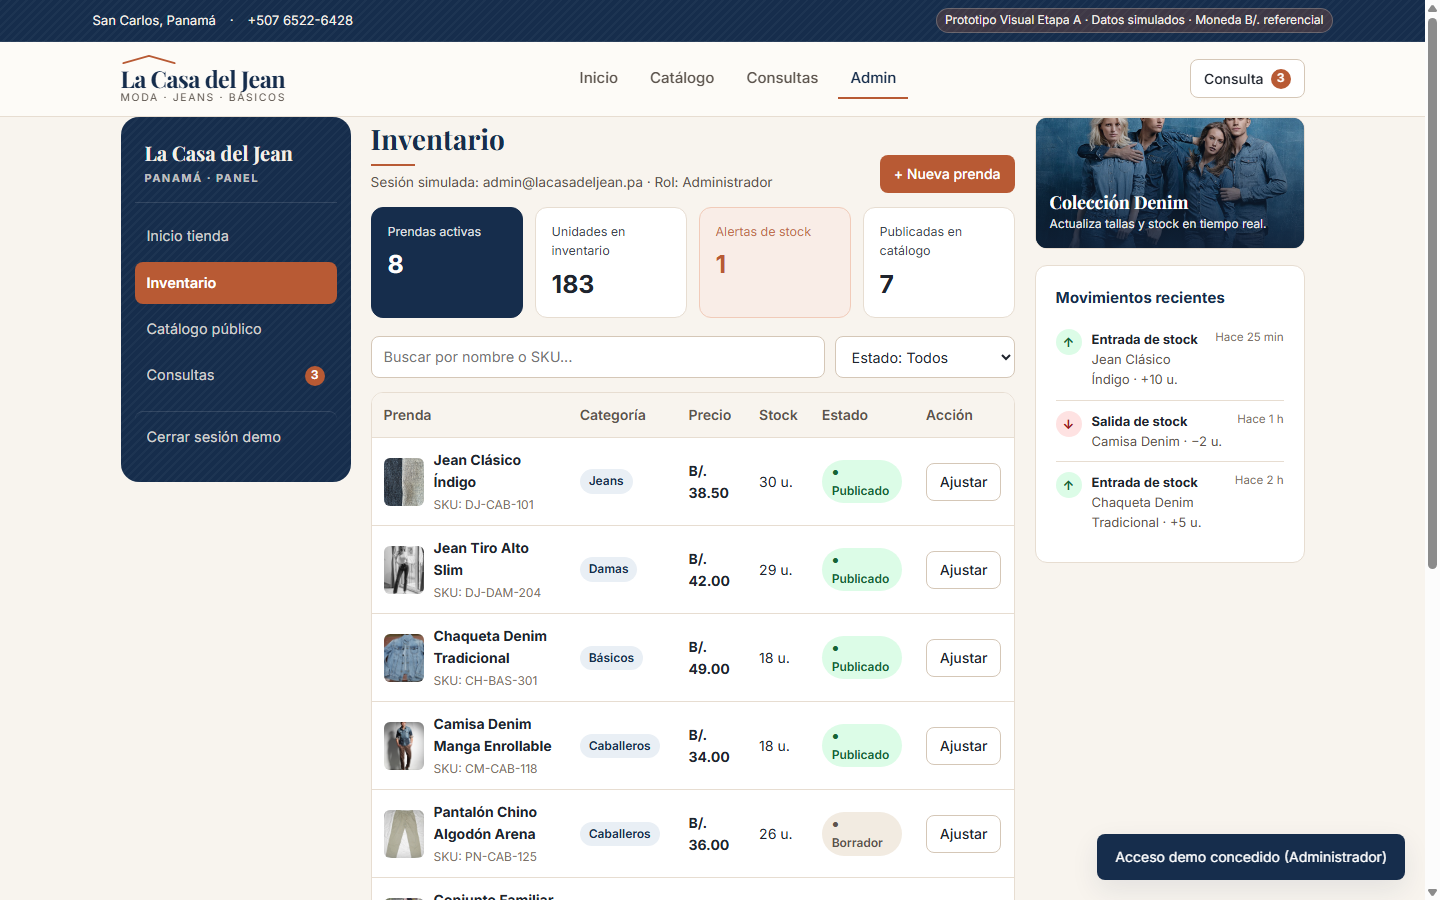
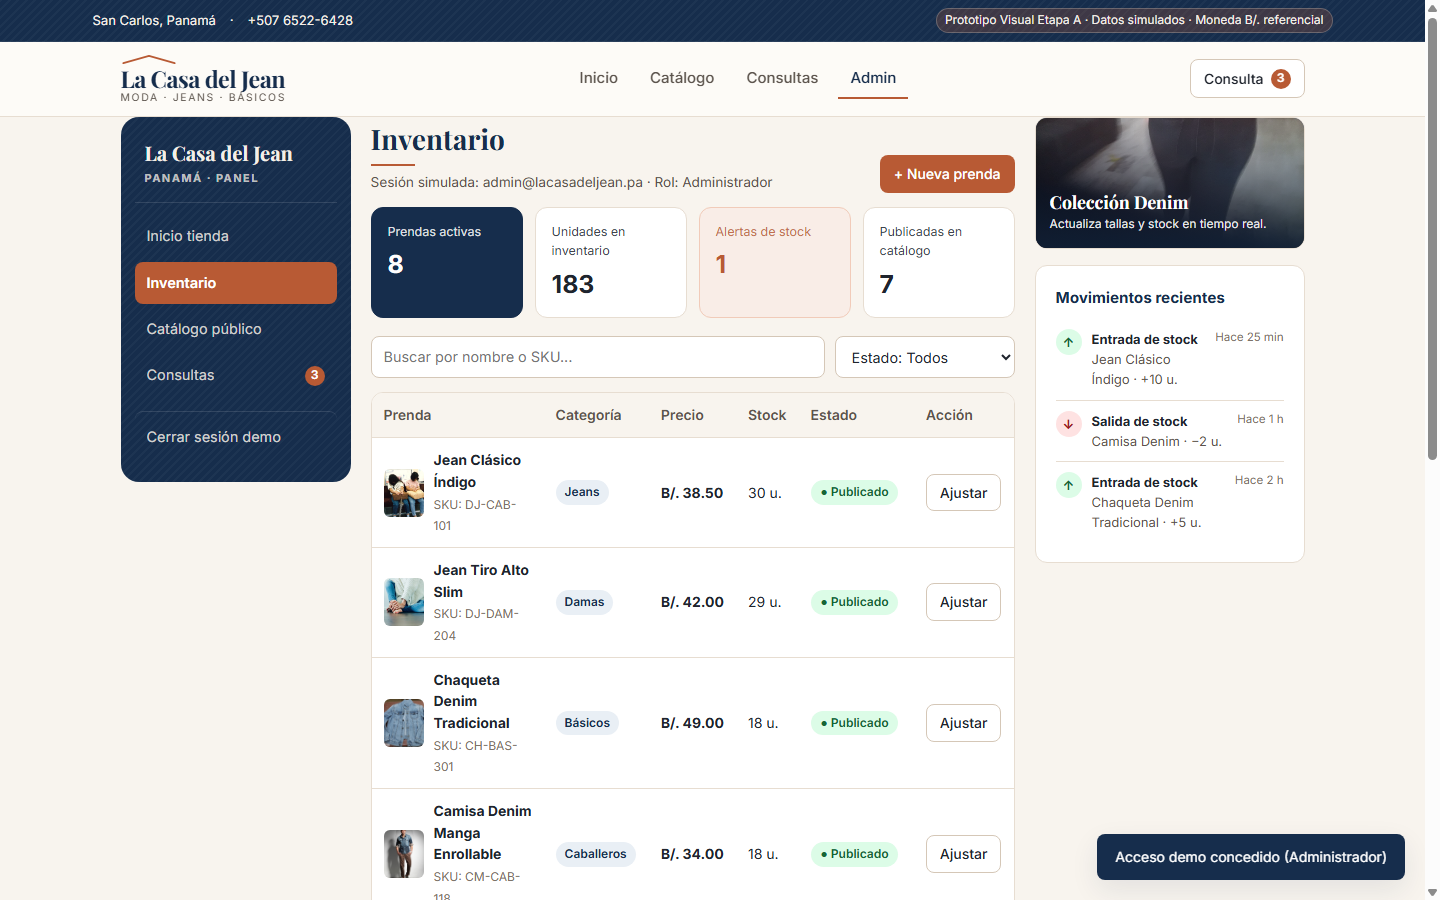
docs(fase2): pulir hero a color, fotos reales, catálogo móvil 2-col y tabla admin (#7, #8, #9)

diff --git a/docs/prototipo-fase2/data.js b/docs/prototipo-fase2/data.js
@@ -14,19 +14,19 @@ window.LCDJ_DATA = {
   },
 
   heroImage: {
-    url: "https://thumb.wikimedia.org/wikipedia/commons/thumb/f/fe/Sedcard_outfit_consisting_of_white_top_%28bodysuit%29%2C_%28blue%29_denim_and_heels.jpg/960px-Sedcard_outfit_consisting_of_white_top_%28bodysuit%29%2C_%28blue%29_denim_and_heels.jpg?utm_source=commons.wikimedia.org&utm_campaign=imageinfo&utm_content=thumbnail",
-    alt: "Modelo vistiendo jeans denim azul clásico y top blanco minimalista",
-    author: "Tobias ToMar Maier",
-    license: "CC BY-SA 4.0",
-    source: "https://commons.wikimedia.org/wiki/File:Sedcard_outfit_consisting_of_white_top_(bodysuit),_(blue)_denim_and_heels.jpg"
-  },
-
-  denimStackImage: {
     url: "https://thumb.wikimedia.org/wikipedia/commons/thumb/0/01/Jeans_Jeans_Jeans.jpg/960px-Jeans_Jeans_Jeans.jpg?utm_source=commons.wikimedia.org&utm_campaign=imageinfo&utm_content=thumbnail",
-    alt: "Colección de jeans denim doblados en distintos lavados",
+    alt: "Campaña editorial de modelos vistiendo jeans y camisas denim azul índigo",
     author: "Jcjeansandclothes",
     license: "CC BY-SA 3.0",
     source: "https://commons.wikimedia.org/wiki/File:Jeans_Jeans_Jeans.jpg"
+  },
+
+  denimStackImage: {
+    url: "https://thumb.wikimedia.org/wikipedia/commons/thumb/9/99/Jeans_mexicanos.jpg/960px-Jeans_mexicanos.jpg?utm_source=commons.wikimedia.org&utm_campaign=imageinfo&utm_content=thumbnail",
+    alt: "Pantalones jeans denim azul en exhibición",
+    author: "El Nuevo Doge",
+    license: "CC0",
+    source: "https://commons.wikimedia.org/wiki/File:Jeans_mexicanos.jpg"
   },
 
   categories: [
@@ -38,7 +38,7 @@ window.LCDJ_DATA = {
     {
       id: "jeans",
       label: "Jeans",
-      image: "https://thumb.wikimedia.org/wikipedia/commons/thumb/0/00/Broken_twill_denim_Wrangler_13MWZ_jeans_%282026-01-21%29.jpg/960px-Broken_twill_denim_Wrangler_13MWZ_jeans_%282026-01-21%29.jpg?utm_source=commons.wikimedia.org&utm_campaign=imageinfo&utm_content=thumbnail"
+      image: "https://thumb.wikimedia.org/wikipedia/commons/thumb/4/48/%E3%83%86%E3%83%BC%E3%83%91%E3%83%BC%E3%83%89%E3%82%B8%E3%83%BC%E3%83%B3%E3%82%BA_%283953687892%29.jpg/960px-%E3%83%86%E3%83%BC%E3%83%91%E3%83%BC%E3%83%89%E3%82%B8%E3%83%BC%E3%83%B3%E3%82%BA_%283953687892%29.jpg?utm_source=commons.wikimedia.org&utm_campaign=imageinfo&utm_content=thumbnail"
     },
     {
       id: "damas",
@@ -86,11 +86,11 @@ window.LCDJ_DATA = {
       color: "Índigo",
       colorId: "indigo",
       swatches: ["#1B365D", "#4D739B", "#1F2937"],
-      image: "https://thumb.wikimedia.org/wikipedia/commons/thumb/0/00/Broken_twill_denim_Wrangler_13MWZ_jeans_%282026-01-21%29.jpg/960px-Broken_twill_denim_Wrangler_13MWZ_jeans_%282026-01-21%29.jpg?utm_source=commons.wikimedia.org&utm_campaign=imageinfo&utm_content=thumbnail",
+      image: "https://thumb.wikimedia.org/wikipedia/commons/thumb/4/48/%E3%83%86%E3%83%BC%E3%83%91%E3%83%BC%E3%83%89%E3%82%B8%E3%83%BC%E3%83%B3%E3%82%BA_%283953687892%29.jpg/960px-%E3%83%86%E3%83%BC%E3%83%91%E3%83%BC%E3%83%89%E3%82%B8%E3%83%BC%E3%83%B3%E3%82%BA_%283953687892%29.jpg?utm_source=commons.wikimedia.org&utm_campaign=imageinfo&utm_content=thumbnail",
       attribution: {
-        author: "Olgierd Rudak",
-        license: "CC BY-SA 4.0",
-        source: "https://commons.wikimedia.org/wiki/File:Broken_twill_denim_Wrangler_13MWZ_jeans_(2026-01-21).jpg"
+        author: "Leo-setä",
+        license: "CC BY 2.0",
+        source: "https://commons.wikimedia.org/wiki/File:%E3%83%86%E3%83%BC%E3%83%91%E3%83%BC%E3%83%89%E3%82%B8%E3%83%BC%E3%83%B3%E3%82%BA_(3953687892).jpg"
       },
       sizes: [
         { size: "28", stock: 6 },
@@ -116,11 +116,11 @@ window.LCDJ_DATA = {
       color: "Azul Medio",
       colorId: "azul-medio",
       swatches: ["#4D739B", "#1B365D"],
-      image: "https://thumb.wikimedia.org/wikipedia/commons/thumb/f/fe/Sedcard_outfit_consisting_of_white_top_%28bodysuit%29%2C_%28blue%29_denim_and_heels.jpg/960px-Sedcard_outfit_consisting_of_white_top_%28bodysuit%29%2C_%28blue%29_denim_and_heels.jpg?utm_source=commons.wikimedia.org&utm_campaign=imageinfo&utm_content=thumbnail",
+      image: "https://thumb.wikimedia.org/wikipedia/commons/thumb/a/a9/Imani-bahati-woman-wearing-distressed-blue-denim-jeans-sitting-on-floor.jpg/960px-Imani-bahati-woman-wearing-distressed-blue-denim-jeans-sitting-on-floor.jpg?utm_source=commons.wikimedia.org&utm_campaign=imageinfo&utm_content=thumbnail",
       attribution: {
-        author: "Tobias ToMar Maier",
-        license: "CC BY-SA 4.0",
-        source: "https://commons.wikimedia.org/wiki/File:Sedcard_outfit_consisting_of_white_top_(bodysuit),_(blue)_denim_and_heels.jpg"
+        author: "Imani Bahati",
+        license: "CC0",
+        source: "https://commons.wikimedia.org/wiki/File:Imani-bahati-woman-wearing-distressed-blue-denim-jeans-sitting-on-floor.jpg"
       },
       sizes: [
         { size: "6", stock: 5 },

diff --git a/docs/prototipo-fase2/styles.css b/docs/prototipo-fase2/styles.css
@@ -192,13 +192,13 @@ main { min-height: calc(100vh - 220px); padding: 24px 0 64px; }
   margin-bottom: 24px;
 }
 @media (min-width: 900px) {
-  .hero-editorial { grid-template-columns: 1.15fr 0.85fr; min-height: 430px; }
+  .hero-editorial { grid-template-columns: 1.05fr 0.95fr; min-height: 340px; max-height: 390px; }
 }
 .hero-copy {
-  padding: 28px 24px; display: flex; flex-direction: column; justify-content: center;
+  padding: 24px 22px; display: flex; flex-direction: column; justify-content: center;
   position: relative;
 }
-@media (min-width: 900px) { .hero-copy { padding: 48px 44px; } }
+@media (min-width: 900px) { .hero-copy { padding: 34px 40px; } }
 
 .leather-patch {
   display: inline-block; align-self: flex-start;
@@ -239,7 +239,7 @@ main { min-height: calc(100vh - 220px); padding: 24px 0 64px; }
 .trust-bar {
   display: grid; grid-template-columns: repeat(2, 1fr); gap: 12px;
   background: var(--surface); border: 1px solid var(--border);
-  border-radius: var(--radius-md); padding: 16px; margin-bottom: 36px;
+  border-radius: var(--radius-md); padding: 14px 16px; margin-bottom: 24px;
 }
 @media (min-width: 860px) { .trust-bar { grid-template-columns: repeat(4, 1fr); padding: 18px 22px; } }
 .trust-item { display: flex; align-items: flex-start; gap: 12px; }
@@ -335,9 +335,17 @@ main { min-height: calc(100vh - 220px); padding: 24px 0 64px; }
 @media (min-width: 900px) { .catalog-layout { grid-template-columns: 260px 1fr; align-items: start; } }
 
 .filter-sidebar {
+  display: none;
   background: var(--surface); border: 1px solid var(--border);
   border-radius: var(--radius-md); padding: 18px;
 }
+.filter-sidebar.is-open { display: block; }
+@media (min-width: 900px) { .filter-sidebar { display: block; } }
+
+.mobile-filter-toggle {
+  display: inline-flex;
+}
+@media (min-width: 900px) { .mobile-filter-toggle { display: none; } }
 .filter-group { padding: 14px 0; border-bottom: 1px solid var(--border); }
 .filter-group:last-child { border-bottom: none; padding-bottom: 0; }
 .filter-group h3 { font-size: 0.875rem; font-weight: 600; margin: 0 0 10px; color: var(--denim); }
@@ -511,6 +519,7 @@ main { min-height: calc(100vh - 220px); padding: 24px 0 64px; }
 }
 table { width: 100%; border-collapse: collapse; font-size: 0.875rem; }
 th, td { padding: 11px 12px; text-align: left; border-bottom: 1px solid var(--border); vertical-align: middle; }
+td.nowrap { white-space: nowrap; }
 th { background: var(--bg); font-weight: 600; color: var(--ink-secondary); white-space: nowrap; }
 .table-prod { display: flex; align-items: center; gap: 10px; }
 .table-prod img { width: 40px; height: 48px; object-fit: cover; border-radius: 6px; flex-shrink: 0; }

diff --git a/docs/prototipo-fase2/index.html b/docs/prototipo-fase2/index.html
@@ -136,9 +136,12 @@
           <h1 id="catalog-heading" class="section-title">Catálogo</h1>
           <p id="catalog-count" style="margin:6px 0 0;font-size:0.875rem;color:var(--ink-secondary);"></p>
         </div>
-        <div style="display:flex;gap:10px;flex-wrap:wrap;align-items:center;">
-          <input id="search-input" class="input" type="search" placeholder="Buscar prendas o SKU..." style="width:220px;" aria-label="Buscar prendas" />
-          <select id="sort-select" class="select" style="width:185px;" aria-label="Ordenar catálogo">
+        <div style="display:flex;gap:8px;flex-wrap:wrap;align-items:center;">
+          <button type="button" class="btn btn-secondary btn-sm mobile-filter-toggle" id="mobile-filter-toggle" aria-expanded="false" aria-controls="catalog-filter-sidebar">
+            ☰ Filtros
+          </button>
+          <input id="search-input" class="input" type="search" placeholder="Buscar prendas o SKU..." style="width:190px;flex:1;" aria-label="Buscar prendas" />
+          <select id="sort-select" class="select" style="width:170px;" aria-label="Ordenar catálogo">
             <option value="featured">Ordenar: Destacados</option>
             <option value="price-asc">Precio: menor a mayor</option>
             <option value="price-desc">Precio: mayor a menor</option>
@@ -148,7 +151,7 @@
       </div>
 
       <div class="catalog-layout">
-        <aside class="filter-sidebar" aria-label="Filtros del catálogo">
+        <aside class="filter-sidebar" id="catalog-filter-sidebar" aria-label="Filtros del catálogo">
           <div style="display:flex;justify-content:space-between;align-items:center;margin-bottom:4px;">
             <strong style="font-size:1rem;color:var(--denim);">Filtros</strong>
             <button type="button" class="btn btn-ghost btn-sm" id="clear-filters-btn" style="color:var(--terracotta);">Limpiar</button>

diff --git a/docs/prototipo-fase2/app.js b/docs/prototipo-fase2/app.js
@@ -466,10 +466,10 @@
           </div>
         </td>
         <td><span class="cat-pill">${p.categoryLabel}</span></td>
-        <td><strong>${formatPrice(p.price)}</strong></td>
-        <td>${stk} u.</td>
-        <td><span class="status-pill ${statusClass}">● ${statusLabel}</span></td>
-        <td><button type="button" class="btn btn-secondary btn-sm" data-adjust-stock="${p.id}">Ajustar</button></td>
+        <td class="nowrap"><strong>${formatPrice(p.price)}</strong></td>
+        <td class="nowrap">${stk} u.</td>
+        <td class="nowrap"><span class="status-pill ${statusClass}">● ${statusLabel}</span></td>
+        <td class="nowrap"><button type="button" class="btn btn-secondary btn-sm" data-adjust-stock="${p.id}">Ajustar</button></td>
       `;
       tbody.appendChild(tr);
     });
@@ -524,6 +524,11 @@
   $("#mobile-menu-btn").addEventListener("click", () => {
     const open = $("#mobile-nav").classList.toggle("is-open");
     $("#mobile-menu-btn").setAttribute("aria-expanded", String(open));
+  });
+
+  $("#mobile-filter-toggle").addEventListener("click", () => {
+    const open = $("#catalog-filter-sidebar").classList.toggle("is-open");
+    $("#mobile-filter-toggle").setAttribute("aria-expanded", String(open));
   });
 
   $("#search-input").addEventListener("input", (e) => { state.filters.search = e.target.value; renderCatalog(); });

diff --git a/docs/prototipo-fase2/README.md b/docs/prototipo-fase2/README.md
@@ -41,9 +41,10 @@ Abrir en el navegador: `http://localhost:4173` (o abrir directamente `docs/proto
 
 | Uso en prototipo | Autor | Licencia | Fuente verificable |
 | --- | --- | --- | --- |
-| Hero / Jean Tiro Alto Slim | Tobias ToMar Maier | CC BY-SA 4.0 | https://commons.wikimedia.org/wiki/File:Sedcard_outfit_consisting_of_white_top_(bodysuit),_(blue)_denim_and_heels.jpg |
-| Colección Denim / Miniatura | Jcjeansandclothes | CC BY-SA 3.0 | https://commons.wikimedia.org/wiki/File:Jeans_Jeans_Jeans.jpg |
-| Jean Clásico Índigo / Cat. Jeans | Olgierd Rudak | CC BY-SA 4.0 | https://commons.wikimedia.org/wiki/File:Broken_twill_denim_Wrangler_13MWZ_jeans_(2026-01-21).jpg |
+| Hero campaña denim a color | Jcjeansandclothes | CC BY-SA 3.0 | https://commons.wikimedia.org/wiki/File:Jeans_Jeans_Jeans.jpg |
+| Colección Denim (panel lateral) | El Nuevo Doge | CC0 | https://commons.wikimedia.org/wiki/File:Jeans_mexicanos.jpg |
+| Jean Clásico Índigo / Cat. Jeans | Leo-setä | CC BY 2.0 | https://commons.wikimedia.org/wiki/File:%E3%83%86%E3%83%BC%E3%83%91%E3%83%BC%E3%83%89%E3%82%B8%E3%83%BC%E3%83%B3%E3%82%BA_(3953687892).jpg |
+| Jean Tiro Alto Slim | Imani Bahati | CC0 | https://commons.wikimedia.org/wiki/File:Imani-bahati-woman-wearing-distressed-blue-denim-jeans-sitting-on-floor.jpg |
 | Chaqueta Denim Tradicional | NikosLikomitros | CC0 | https://commons.wikimedia.org/wiki/File:Jean_jacket.jpg |
 | Camisa Denim / Cat. Caballeros | May Lee | CC BY-SA 2.0 | https://commons.wikimedia.org/wiki/File:Man_wearing_blue_denim_shirt_with_rolled_sleeves,_tan_chinos_1.jpg |
 | Pantalón Chino Algodón Arena | Kuha455405 | CC BY-SA 3.0 | https://commons.wikimedia.org/wiki/File:Chino_pants.jpg |
